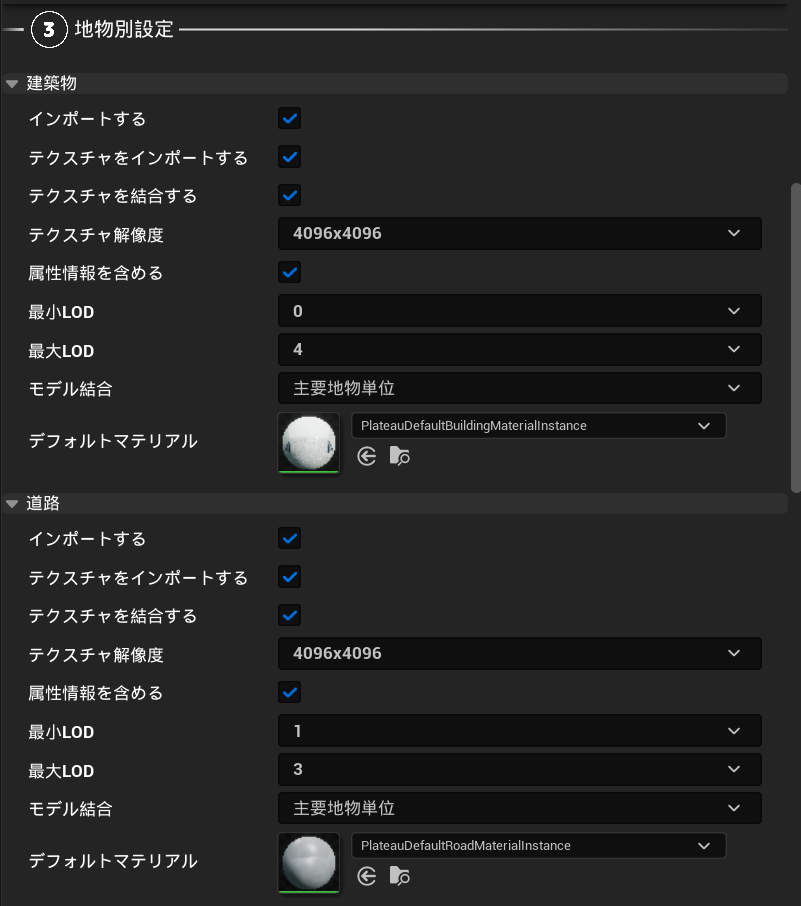
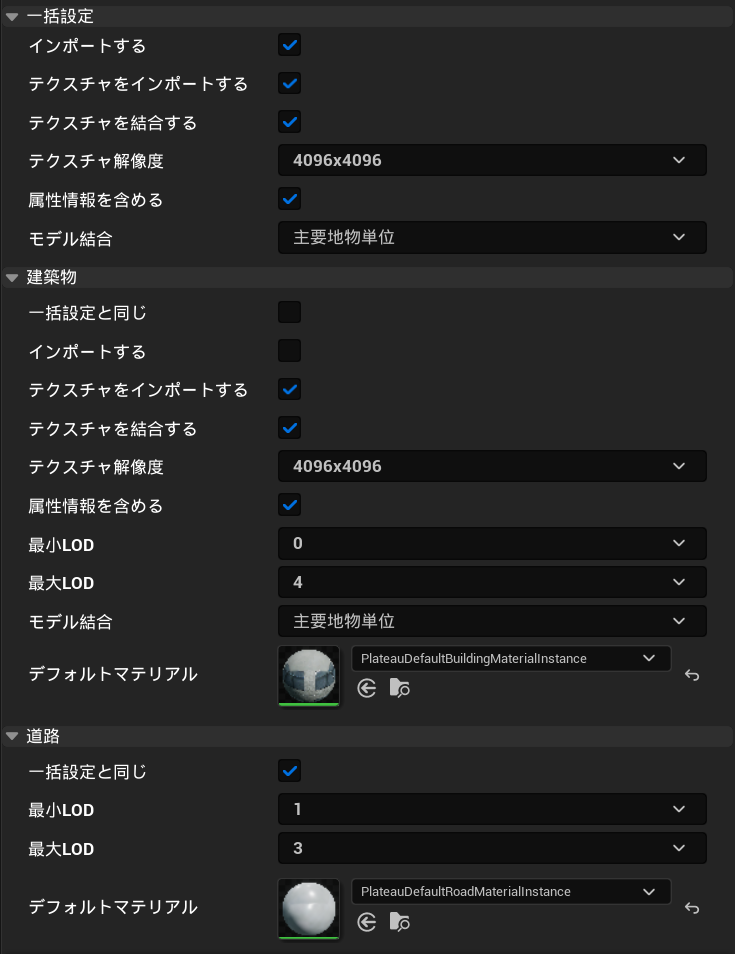
地物別設定を一括で行うUIを利用できる
・ドキュメント更新

diff --git a/Documentation/manual/ImportCityModels.md b/Documentation/manual/ImportCityModels.md
@@ -64,8 +64,15 @@
 
 ### 地物別設定
 地物の種類ごとにインポートに関する設定を行います。  
-![](../resources/manual/importCityModels/importPerPackageConfig.png)  
-**設定項目について:**
+![](../resources/manual/importCityModels/importPerPackageConfig.png)
+
+
+**設定項目について:**  
+- `一括設定`  
+  - 全地物タイプの項目を一括で設定できます。  
+  - `上図の設定例について`：
+    - 建築物は「一括設定と同じ」のチェックが付いていないため個別に項目を設定できます。建築物の「インポートする」のチェックが付いていないのでインポートされません。
+    - 道路は「一括設定と同じ」のチェックが付いているため一括設定の項目が設定されます。一括設定の「インポートする」のチェックが付いているのでインポートされます。  
 - `インポートする`
   - チェックが付いている地物タイプのみインポートします。
 - `テクスチャを含める`
